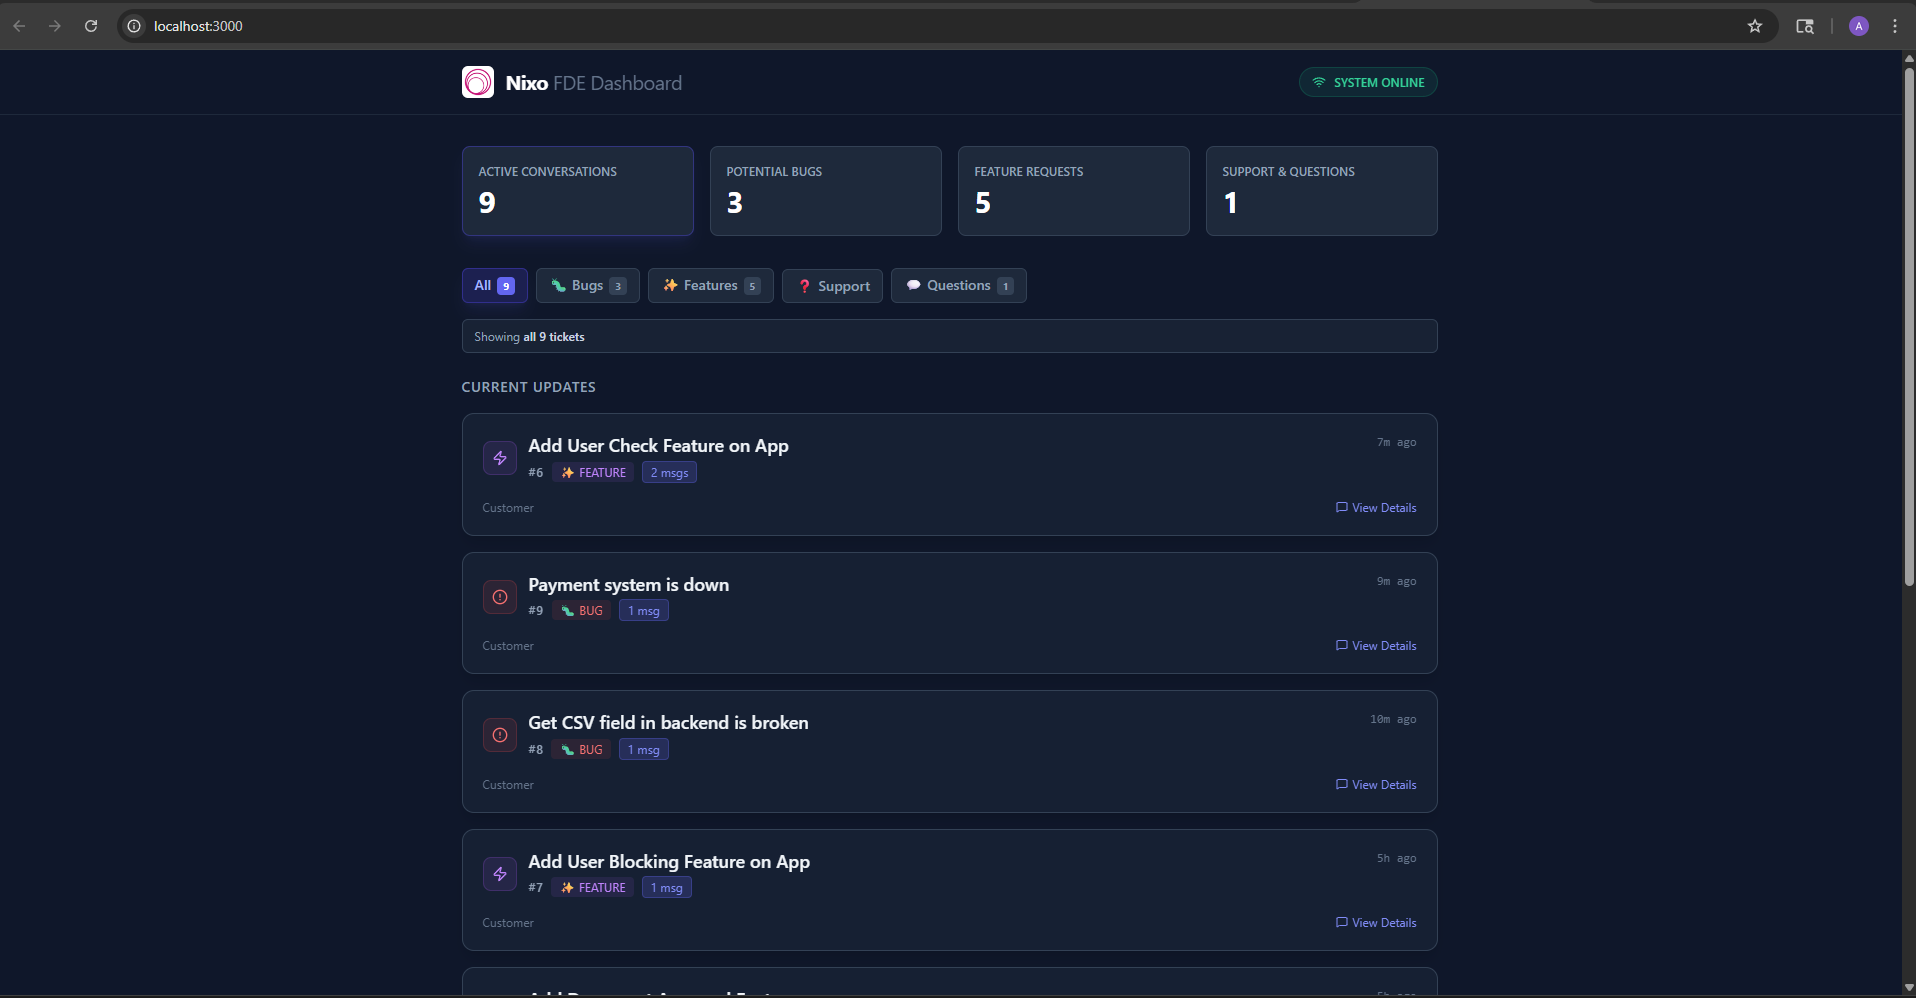
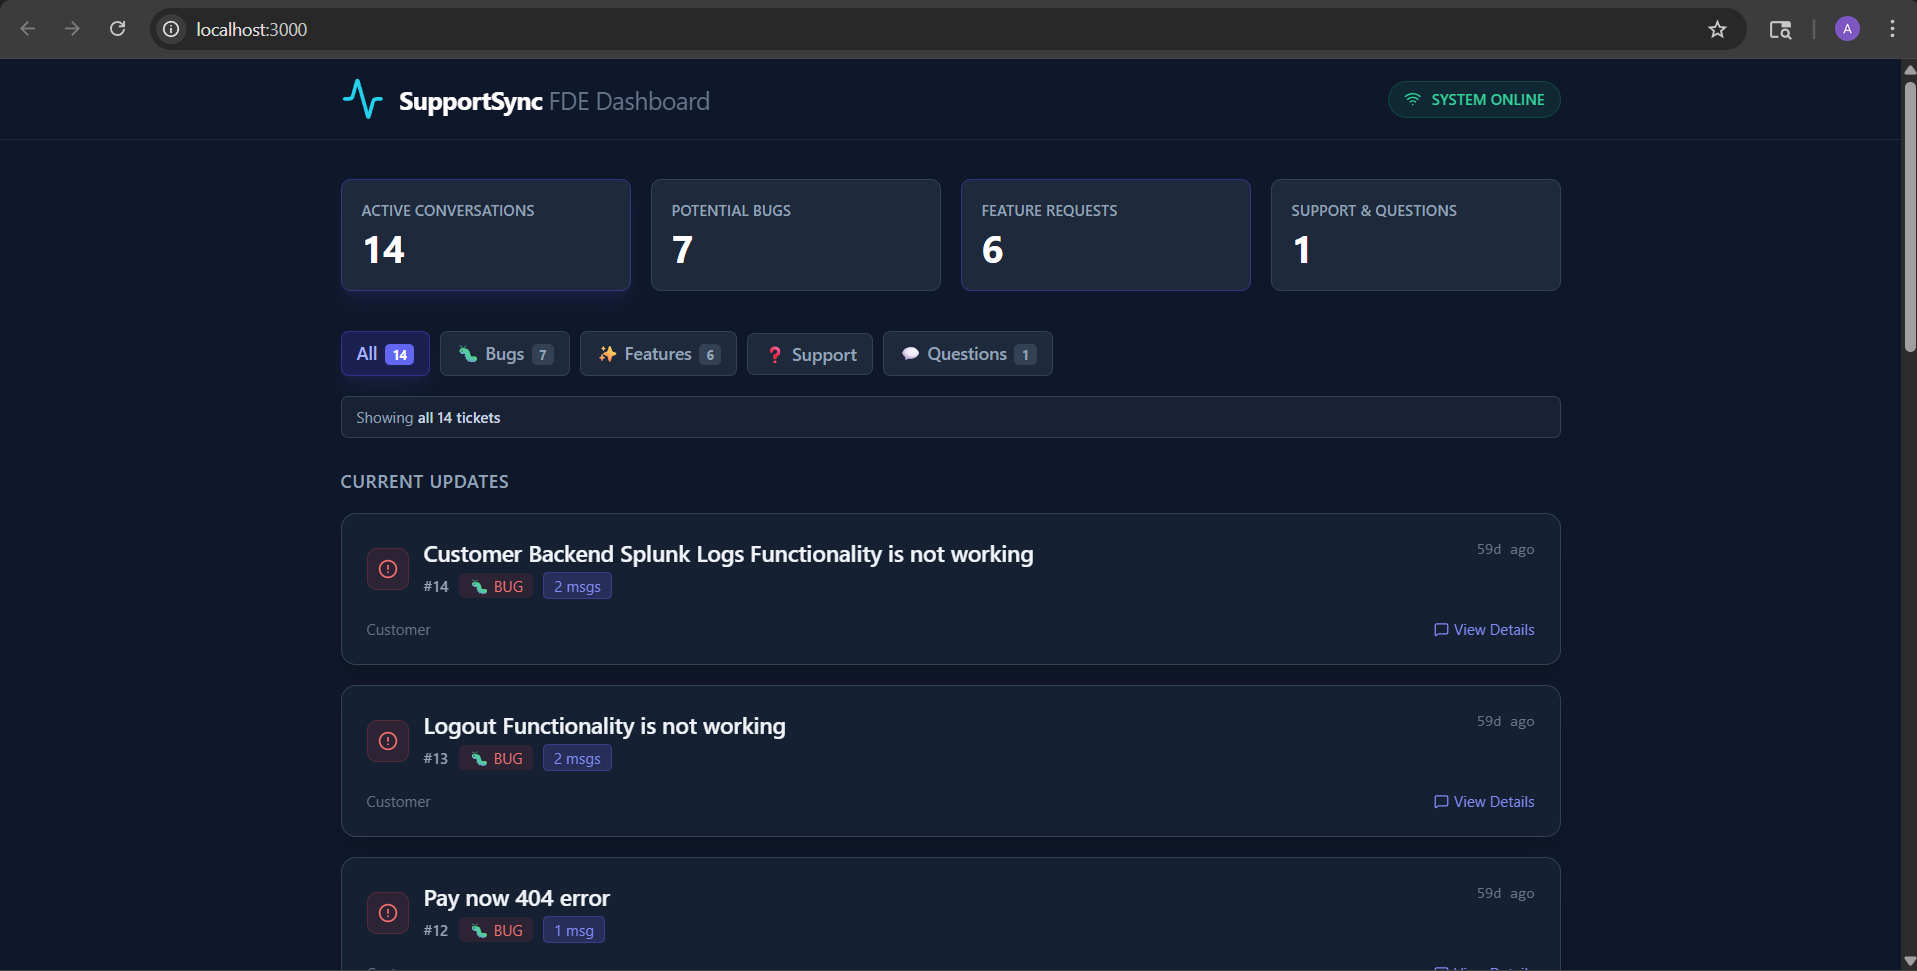
Project Restructuring

diff --git a/FrontEnd/public/index.html b/FrontEnd/public/index.html
@@ -2,14 +2,14 @@
 <html lang="en">
   <head>
     <meta charset="utf-8" />
-    <link rel="icon" href="%PUBLIC_URL%/nixo.png" />
+    <link rel="icon" href="%PUBLIC_URL%/logo.svg" />
     <meta name="viewport" content="width=device-width, initial-scale=1" />
     <meta name="theme-color" content="#000000" />
     <meta
       name="description"
       content="Web site created using create-react-app"
     />
-    <link rel="apple-touch-icon" href="%PUBLIC_URL%/nixo.png" />
+    <link rel="apple-touch-icon" href="%PUBLIC_URL%/logo.svg" />
     <!--
       manifest.json provides metadata used when your web app is installed on a
       user's mobile device or desktop. See https://developers.google.com/web/fundamentals/web-app-manifest/
@@ -24,7 +24,7 @@
       work correctly both with client-side routing and a non-root public URL.
       Learn how to configure a non-root public URL by running `npm run build`.
     -->
-    <title>Nixo Slackbot Dashboard</title>
+    <title>SupportSync Slackbot Dashboard</title>
   </head>
   <body>
     <noscript>You need to enable JavaScript to run this app.</noscript>

diff --git a/FrontEnd/src/App.js b/FrontEnd/src/App.js
@@ -42,15 +42,10 @@ function App() {
         <div className="max-w-5xl mx-auto px-6 h-16 flex items-center justify-between">
           <div className="flex items-center gap-3">
             <div className="bp-1.5 rounded-md">
-              {/* <Activity className="text-white" size={20} /> */}
-              <img
-                src="/nixo.png"
-                alt="Nixo Logo"
-                className="h-8 w-auto object-contain rounded-md"
-              />
+              <Activity className="text-cyan-400 animate-pulse" size={35}/>
             </div>
             <h1 className="font-bold text-xl tracking-tight text-white">
-              Nixo <span className="text-slate-500 font-normal">FDE Dashboard</span>
+              SupportSync <span className="text-slate-500 font-normal">FDE Dashboard</span>
             </h1>
           </div>
 

diff --git a/Readme.md b/Readme.md
@@ -1,4 +1,4 @@
-# **Nixo FDE Mission Control: Intelligent Slackbot Dashboard**
+# **SupportSync: Intelligent Slackbot Dashboard**
 
 A minimal end to end system that listens to customer conversations in Slack, classifies relevant messages, groups related issues, and displays them in a realtime dashboard for a Forward-Deployed Engineer (FDE).
 
@@ -85,9 +85,118 @@ Runs fully on localhost with ngrok acting as the public callback URL for Slack e
 | Slack Workspace | One FDE user and one customer user |
 | Slack App       | With correct scopes                |
 
+
+
 ---
 
-# **4. Environment Setup**
+# **4. 🐳 Running with Docker (Recommended)**
+
+The easiest way to run the full stack (Database + Backend + Frontend) is using Docker Compose.
+
+### **1. Create the Docker Compose File**
+
+Create a `docker-compose.yml` file in the project root:
+
+```yaml
+version: '3.8'
+
+services:
+  postgres:
+    image: postgres:15-alpine
+    container_name: supportsync-db
+    environment:
+      POSTGRES_USER: postgres
+      POSTGRES_PASSWORD: password
+      POSTGRES_DB: supportsync
+    ports:
+      - "5432:5432"
+    volumes:
+      - postgres_data:/var/lib/postgresql/data
+
+  backend:
+    build: ./Backend
+    container_name: supportsync-backend
+    ports:
+      - "8080:8080"
+    environment:
+      SPRING_DATASOURCE_URL: jdbc:postgresql://postgres:5432/supportsync
+      SPRING_DATASOURCE_USERNAME: postgres
+      SPRING_DATASOURCE_PASSWORD: password
+      SLACK_BOT_TOKEN: ${SLACK_BOT_TOKEN}
+      SLACK_SIGNING_SECRET: ${SLACK_SIGNING_SECRET}
+      AI_PROVIDER: openai
+      OPENAI_API_KEY: ${OPENAI_API_KEY}
+    depends_on:
+      - postgres
+
+  frontend:
+    build: ./Frontend
+    container_name: supportsync-frontend
+    ports:
+      - "3000:3000"
+    depends_on:
+      - backend
+
+volumes:
+  postgres_data:
+
+```
+
+### **2. Create a `.env` file**
+
+Create a `.env` file in the root directory to store your secrets (do not commit this file):
+
+```env
+SLACK_BOT_TOKEN=xoxb-your-token-here
+SLACK_SIGNING_SECRET=your-secret-here
+OPENAI_API_KEY=sk-your-api-key-here
+
+```
+
+### **3. Build and Run**
+
+```bash
+docker-compose up --build
+
+```
+
+* **Frontend:** `http://localhost:3000`
+* **Backend:** `http://localhost:8080`
+
+### **Action Item: Dockerfiles**
+
+To make the Docker section work, you must create a `Dockerfile` in both the Backend and Frontend folders.
+
+**Backend/Dockerfile**
+
+```dockerfile
+FROM eclipse-temurin:17-jdk-alpine
+WORKDIR /app
+COPY .mvn/ .mvn
+COPY mvnw pom.xml ./
+RUN ./mvnw dependency:go-offline
+COPY src ./src
+CMD ["./mvnw", "spring-boot:run"]
+
+```
+
+**Frontend/Dockerfile**
+
+```dockerfile
+FROM node:18-alpine
+WORKDIR /app
+COPY package.json package-lock.json ./
+RUN npm install
+COPY . .
+CMD ["npm", "run", "dev", "--", "--host"]
+
+```
+
+---
+
+## **5. Manual Local Setup**
+
+If you prefer running without Docker:
 
 ## Backend Configuration
 
